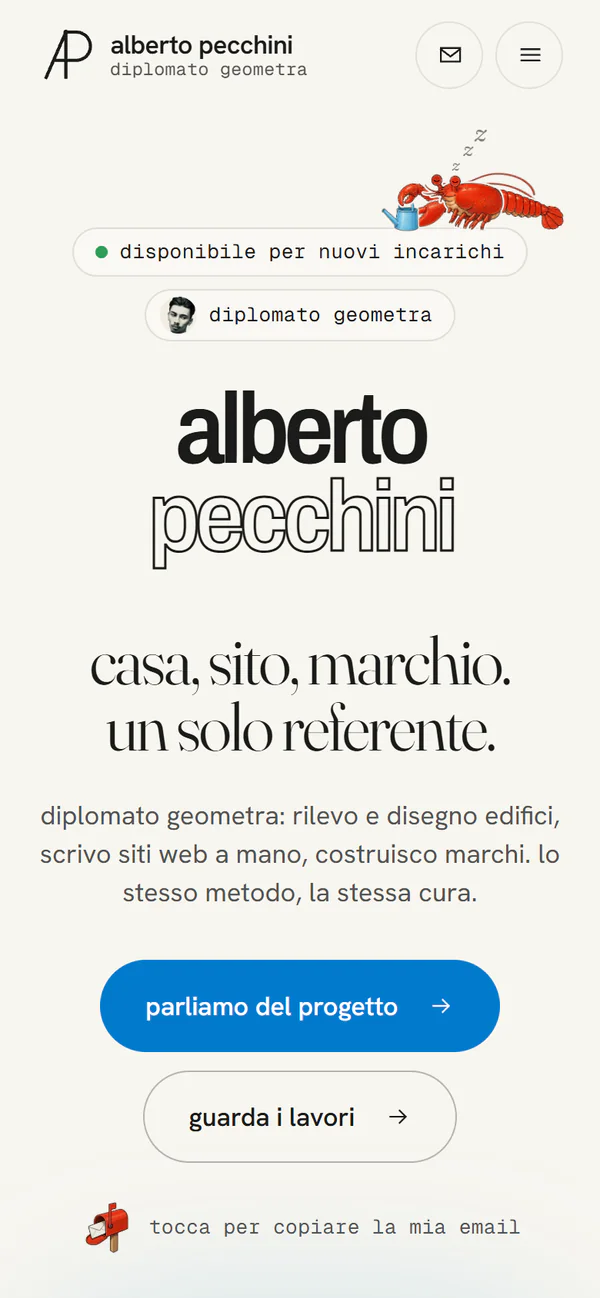
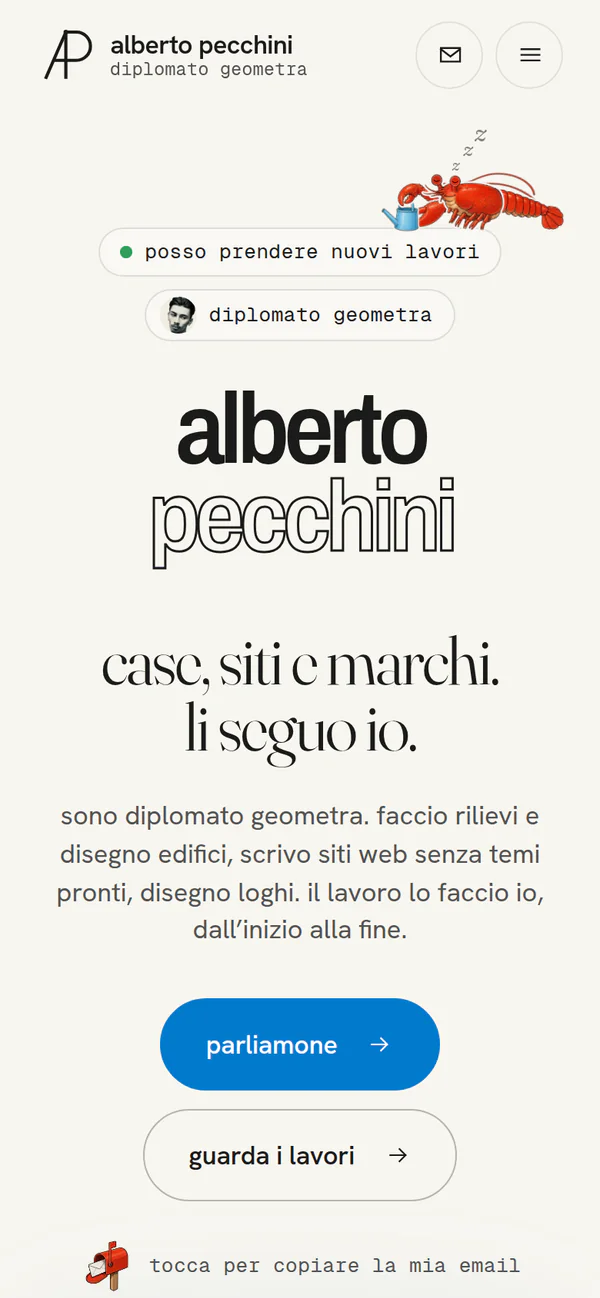
Catture aggiornate: Alberto Pecchini, Ing. Dario Donelli, pzkko
Rifatte da .github/workflows/catture.yml: il sito online era cambiato.

diff --git a/albertopecchini.it/src/data/catture.js b/albertopecchini.it/src/data/catture.js
@@ -4,16 +4,17 @@
 // la copia vecchia dopo un aggiornamento.
 
 export const catture = {
-  'ap-desktop-tall.webp': { w: 1200, h: 2833, v: '157cb51f' },
-  'ap-desktop.webp': { w: 1200, h: 750, v: '9704ccca' },
-  'ap-iphone-01.webp': { w: 804, h: 4764, v: 'bcbff56c' },
-  'ap-iphone-02.webp': { w: 804, h: 4764, v: '4ed86550' },
-  'ap-iphone-03.webp': { w: 804, h: 4764, v: '27d559a2' },
-  'ap-iphone-04.webp': { w: 804, h: 4764, v: '1dde2042' },
-  'ap-iphone-05.webp': { w: 804, h: 4764, v: 'bca02c88' },
-  'ap-mobile-tall.webp': { w: 600, h: 4000, v: 'a45985e9' },
-  'ap-mobile.webp': { w: 600, h: 1298, v: '2c2bc81c' },
-  'ap-tablet.webp': { w: 720, h: 1036, v: '76db9d0b' },
+  'ap-desktop-tall.webp': { w: 1200, h: 2833, v: 'd4347858' },
+  'ap-desktop.webp': { w: 1200, h: 750, v: '8db0263b' },
+  'ap-iphone-01.webp': { w: 804, h: 4312, v: 'b1007cbf' },
+  'ap-iphone-02.webp': { w: 804, h: 4312, v: '69ca6e02' },
+  'ap-iphone-03.webp': { w: 804, h: 4312, v: '434bae22' },
+  'ap-iphone-04.webp': { w: 804, h: 4312, v: '70c268bc' },
+  'ap-iphone-05.webp': { w: 804, h: 4312, v: 'afdd555d' },
+  'ap-iphone-06.webp': { w: 804, h: 4310, v: '3ee7cbfa' },
+  'ap-mobile-tall.webp': { w: 600, h: 4000, v: 'b8106668' },
+  'ap-mobile.webp': { w: 600, h: 1298, v: '096adddc' },
+  'ap-tablet.webp': { w: 720, h: 1036, v: '0006d83e' },
   'bcp-desktop.webp': { w: 1200, h: 750, v: '3a04fbad' },
   'bcp-guestbook-tablet.webp': { w: 720, h: 960, v: 'e1857b4f' },
   'bcp-mobile.webp': { w: 600, h: 1298, v: 'ebf9bfe2' },
@@ -28,17 +29,17 @@ export const catture = {
   'cascina-mobile.webp': { w: 600, h: 1298, v: '4b5a2a22' },
   'cascina-prodotti-desktop.webp': { w: 1200, h: 750, v: '8993284d' },
   'cascina-tablet.webp': { w: 720, h: 1036, v: '19d30650' },
-  'dd-desktop-tall.webp': { w: 1200, h: 2833, v: '1718d8e1' },
-  'dd-desktop.webp': { w: 1200, h: 750, v: '80b8aa59' },
-  'dd-mobile-tall.webp': { w: 600, h: 4000, v: '2db97762' },
-  'dd-mobile.webp': { w: 600, h: 1298, v: '160e3797' },
-  'dd-tablet.webp': { w: 720, h: 1036, v: 'be959938' },
+  'dd-desktop-tall.webp': { w: 1200, h: 2833, v: 'f2e8ba8e' },
+  'dd-desktop.webp': { w: 1200, h: 750, v: 'ecb4b8eb' },
+  'dd-mobile-tall.webp': { w: 600, h: 4000, v: '1d3b8aad' },
+  'dd-mobile.webp': { w: 600, h: 1298, v: '787e98a4' },
+  'dd-tablet.webp': { w: 720, h: 1036, v: '28cdd79f' },
   'pzk-bologna-m.webp': { w: 540, h: 720, v: 'ae6d59d0' },
   'pzk-bologna.webp': { w: 1080, h: 1440, v: '4cc7cd1d' },
-  'pzk-casino-mobile.webp': { w: 600, h: 1298, v: '193e9bfc' },
-  'pzk-chat-tablet.webp': { w: 720, h: 960, v: 'a2d6206c' },
-  'pzk-desktop.webp': { w: 1200, h: 750, v: '67c83099' },
-  'pzk-mobile.webp': { w: 600, h: 1298, v: 'cbeee8a4' },
-  'pzk-progetti-desktop.webp': { w: 1200, h: 750, v: '5d6460c3' },
-  'pzk-tablet.webp': { w: 720, h: 1036, v: '3266b29f' },
+  'pzk-casino-mobile.webp': { w: 600, h: 1298, v: '3b17d350' },
+  'pzk-chat-tablet.webp': { w: 720, h: 960, v: '2a900bb4' },
+  'pzk-desktop.webp': { w: 1200, h: 750, v: '43a0527f' },
+  'pzk-mobile.webp': { w: 600, h: 1298, v: '0ca385ba' },
+  'pzk-progetti-desktop.webp': { w: 1200, h: 750, v: 'b89dc2bd' },
+  'pzk-tablet.webp': { w: 720, h: 1036, v: '178af5aa' },
 }
